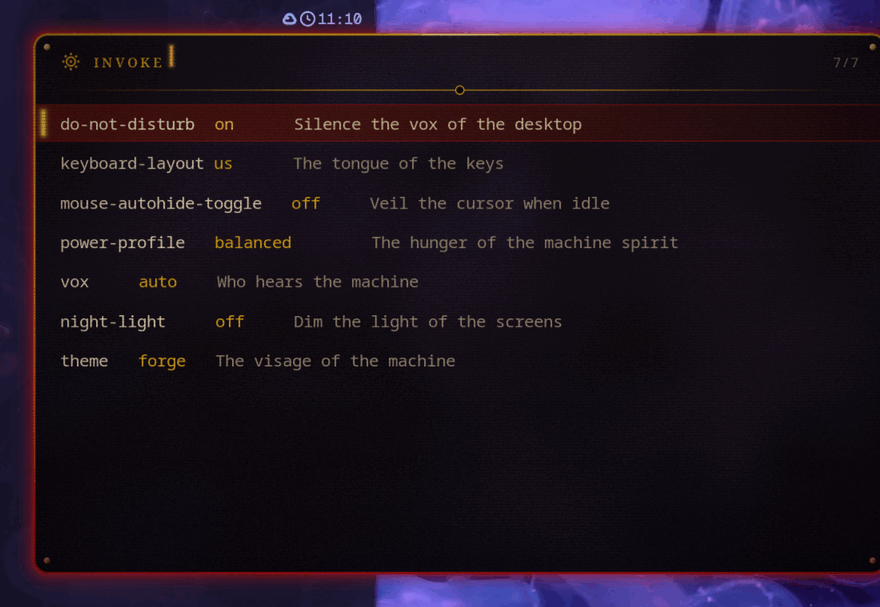
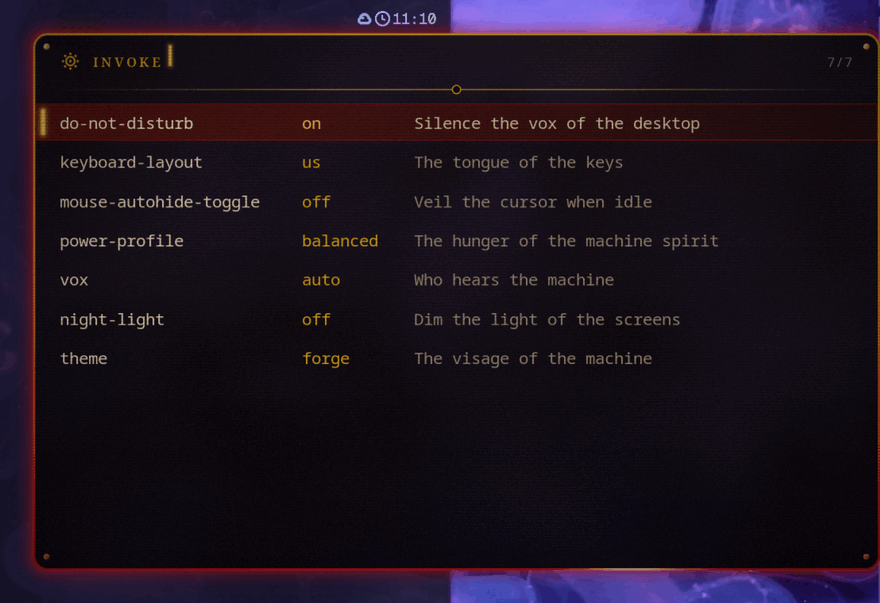
docs(evidence): both themes live with aligned columns
The live screenshots (owner's niri session, scale 1.3, a dmenu with the
canvas's rites and --counter) now show the measured, aligned columns
instead of tab stops.

Partially AI-Slop

diff --git a/README.md b/README.md
@@ -576,7 +576,9 @@ the owner's niri session at scale 1.3 with blur behind and their glow (another
 window at the right edge cropped away)
 ([forge](docs/evidence/theme-forge-live.png),
 [phosphor](docs/evidence/theme-phosphor-live.png); IBM Plex Mono, Cinzel and
-VT323 were not installed there, so the fallbacks show). Choose one
+VT323 were not installed there, so the fallbacks show; the columns measured,
+and phosphor's wide fallback face leaves the last column to its ellipsis).
+Choose one
 with the config's `"theme"`. Your own are `themes/<name>.jsonc` beside
 `logis.jsonc` (`~/.config/logis/themes/`); a file named like a bundled theme
 overrides it.
